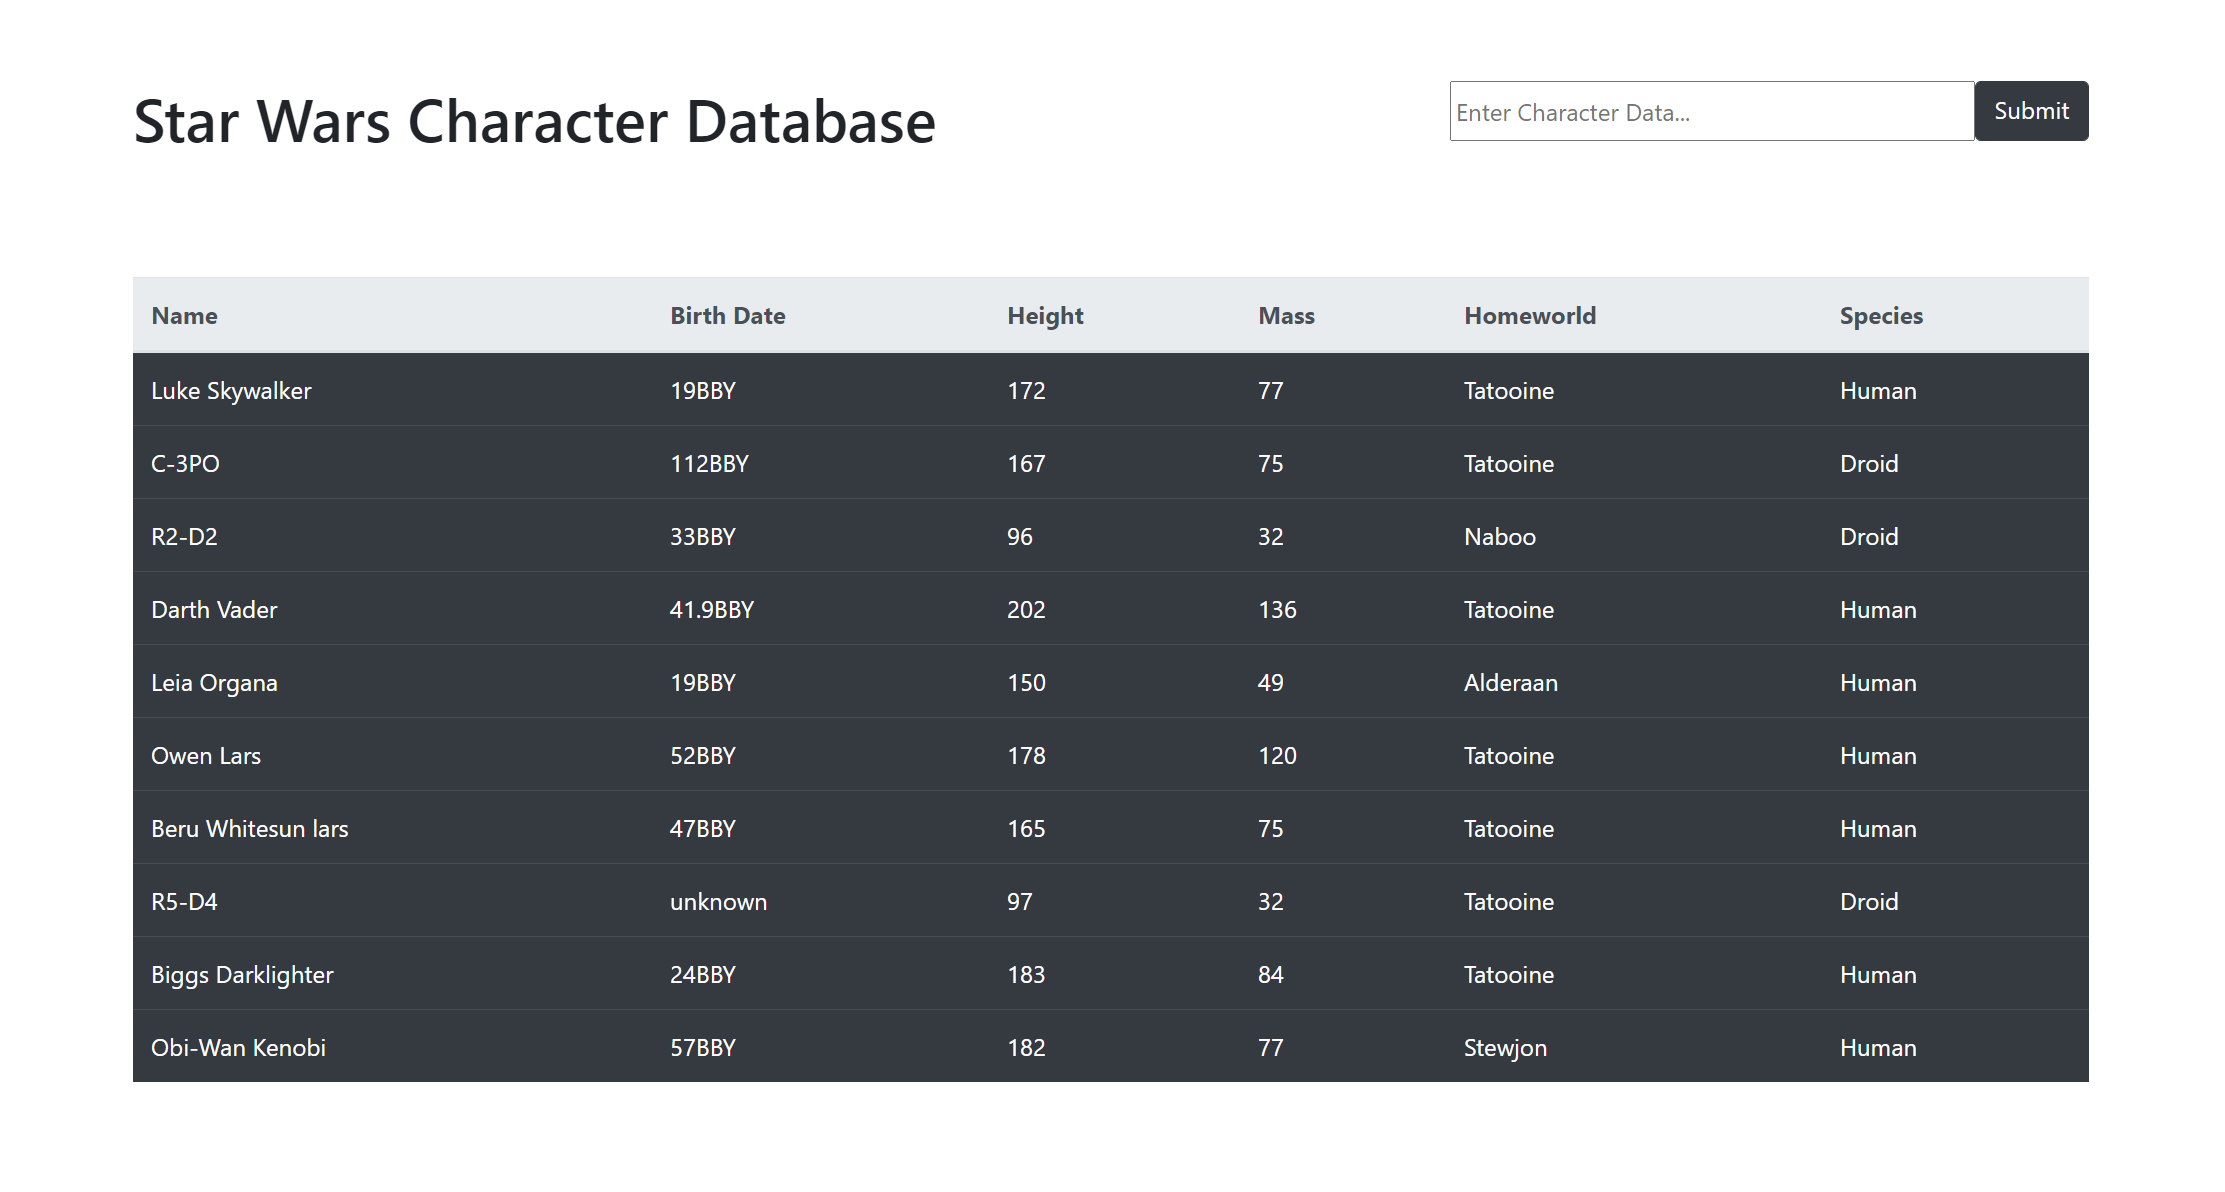
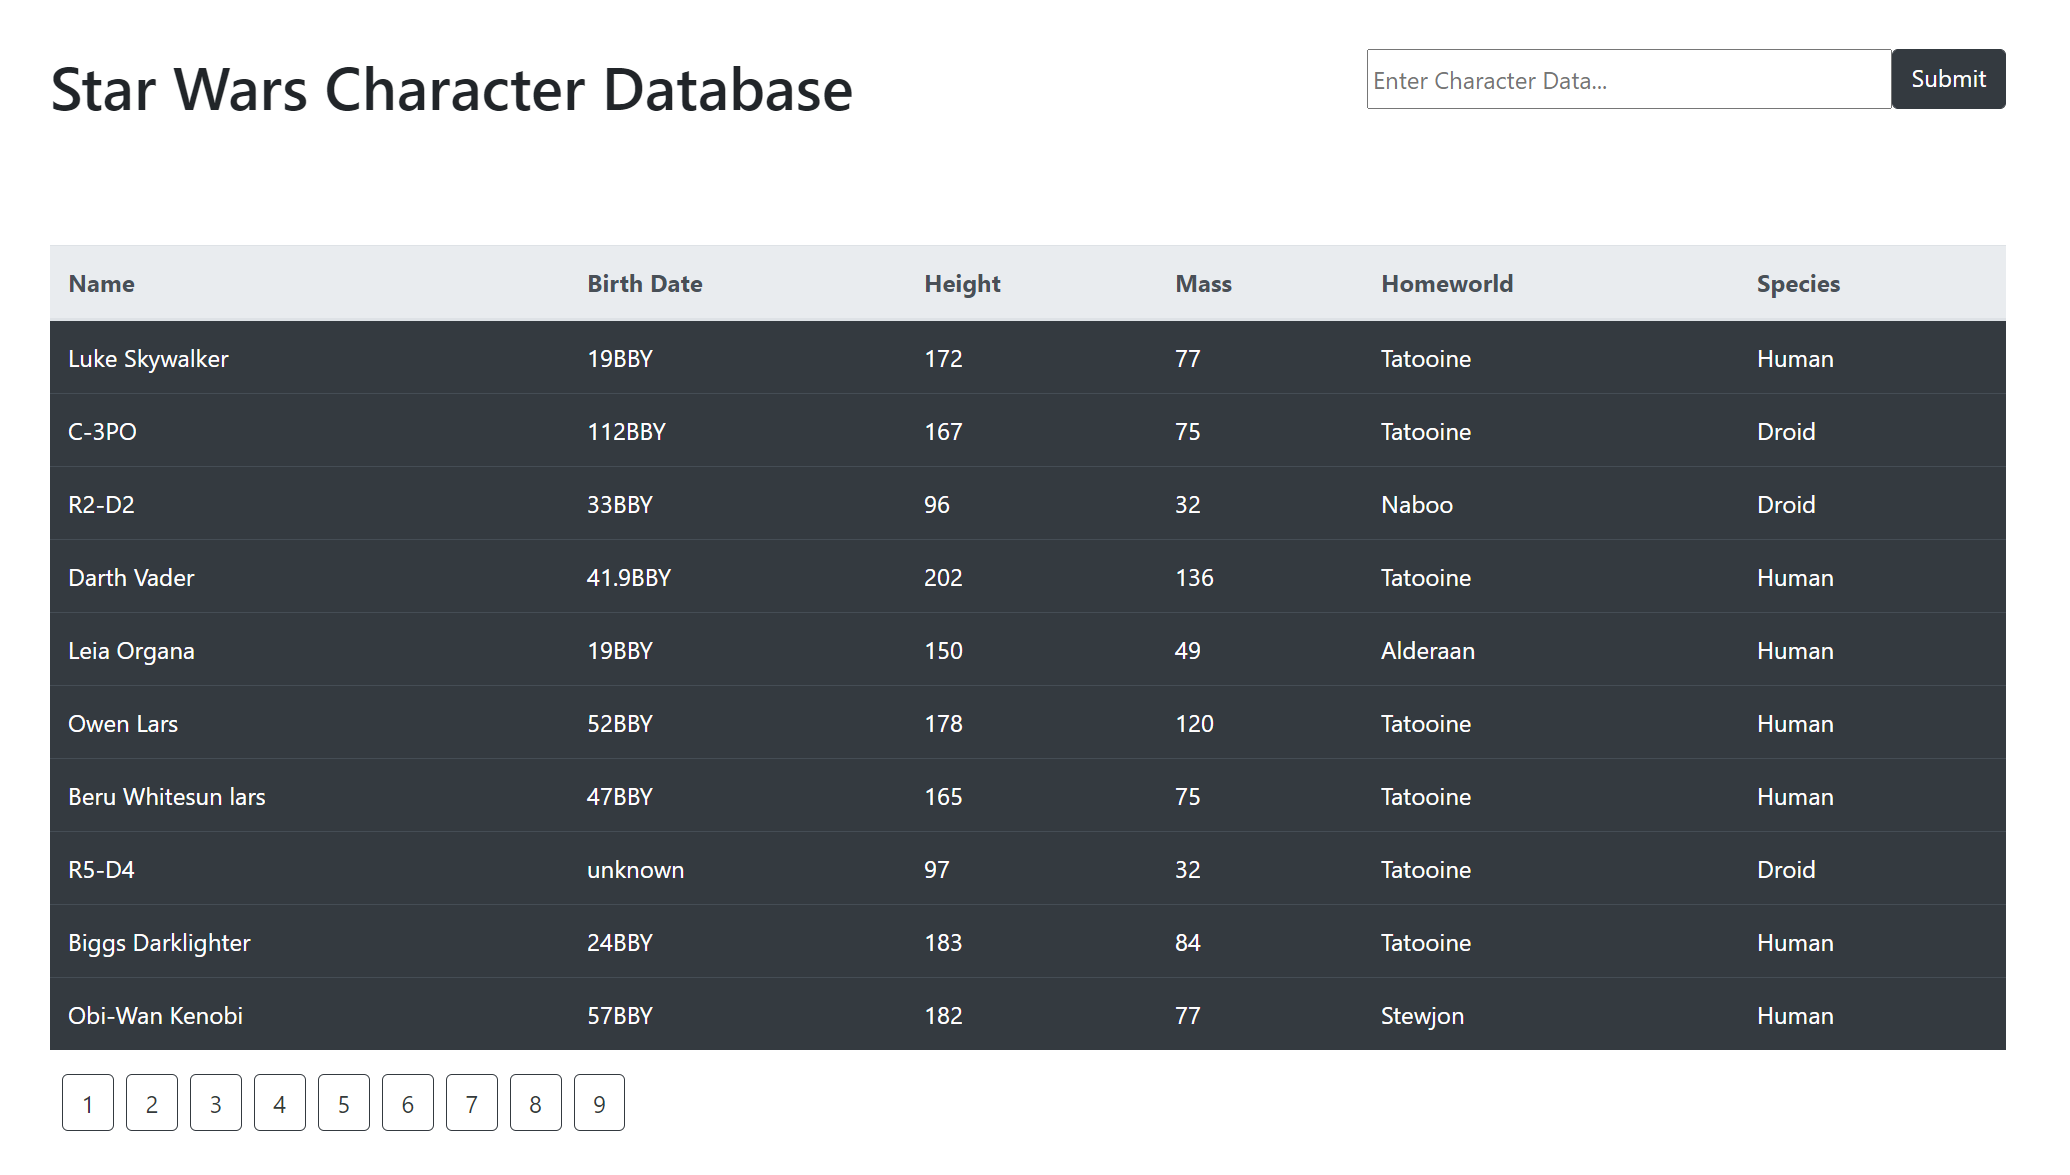
added Pagination

diff --git a/src/App.js b/src/App.js
@@ -2,6 +2,7 @@ import React, { Component } from "react";
 import 'bootstrap/dist/css/bootstrap.min.css';
 import CharacterTable from "./components/CharacterTable";
 import SearchBar from "./components/SearchBar";
+import Pagination from "./components/Pagination";
 
 class App extends Component {
     constructor() {
@@ -19,7 +20,7 @@ class App extends Component {
         this.searchCharacter = this.searchCharacter.bind(this);
     }
 
-    async componentDidMount() {
+    async getCharacterData() {
         let planetsArray = [];
         let speciesArray = [];
         this.setState({ loading: true });
@@ -38,7 +39,6 @@ class App extends Component {
             let speciesData = await speciesResponse.json();
             speciesArray.push(speciesData.name);
         }
-
         this.setState({
             loading: false,
             characters: [...data.results],
@@ -47,51 +47,56 @@ class App extends Component {
         })
     }
 
-    async loadCharacters(pageNumber) {
-        let response = await fetch(`https://swapi.dev/api/people/?page=${pageNumber}&search=${this.state.nameSearch}`);
-        let data = await response.json();
-        this.setState({
-            characters: data,
-        });
+    async componentDidMount() {
+        this.getCharacterData();
     }
 
-    async searchCharacter(event) {
-        event.preventDefault();
-        let response = await fetch(`https://swapi.dev/api/people/?search=${this.state.nameSearch}`)
-            .then(res => res.json());
-        this.setState({
-            characters: response.results,
-        });
-    }
+async loadCharacters(pageNumber) {
+    let response = await fetch(`https://swapi.dev/api/people/?page=${pageNumber}`);
+    let data = await response.json();
+    this.setState({
+        characters: data.results,
+    });
+}
 
-    handleChange(event) {
-        const { name, value } = event.target;
-        this.setState({
-            [name]: value
-        })
-    };
+async searchCharacter(event) {
+    event.preventDefault();
+    let response = await fetch(`https://swapi.dev/api/people/?search=${this.state.nameSearch}`)
+        .then(res => res.json());
+    this.setState({
+        characters: response.results,
+    });
+}
 
-    render() {
-        return (
-            <div className="App">
-                <div class="topnav">
-                    <h1>Star Wars Character Database</h1>
-                    <SearchBar
-                        characterSearch={this.state.characterSearch}
-                        searchCharacter={this.searchCharacter}
-                        handleChange={this.handleChange} />
-                </div>
-                <div class="character-table">
-                    {(this.state.loading) ? "... completing Kessel Run ..." :
-                        <CharacterTable
-                            key={this.state.characters}
-                            characters={this.state.characters}
-                            planets={this.state.planets}
-                            species={this.state.species} />}
-                </div>
+handleChange(event) {
+    const { name, value } = event.target;
+    this.setState({
+        [name]: value
+    })
+};
+
+render() {
+    return (
+        <div className="App">
+            <div className="topnav">
+                <h1>Star Wars Character Database</h1>
+                <SearchBar
+                    characterSearch={this.state.characterSearch}
+                    searchCharacter={this.searchCharacter}
+                    handleChange={this.handleChange} />
             </div>
-        );
-    }
+            <div className="character-table">
+                {(this.state.loading) ? "... completing Kessel Run ..." :
+                    <CharacterTable
+                        key={this.state.characters}
+                        characters={this.state.characters}
+                        planets={this.state.planets}
+                        species={this.state.species} />}
+            </div>
+            <Pagination loadCharacters={this.loadCharacters} />
+        </div>
+    );
+}
 }
 
 export default App

diff --git a/src/components/Pagination.js b/src/components/Pagination.js
@@ -1,0 +1,24 @@
+import React, { Component } from 'react'
+
+export class Pagination extends Component {
+    render() {
+        const buttons = [];
+        for (let i = 1; i < 10; i++) {
+            buttons.push(i);
+        }
+
+        const paginate = buttons.map(btn => (
+            <button
+                key={btn}
+                className="btn btn-outline-dark ml-2"
+                onClick={() => this.props.loadCharacters(btn)}
+            >
+                {btn}
+            </button>
+        ));
+
+        return <div>{paginate}</div>;
+    }
+}
+
+export default Pagination

diff --git a/src/components/SearchBar.js b/src/components/SearchBar.js
@@ -11,7 +11,7 @@ function SearchForm(props){
                 onChange={props.handleChange}
                 placeholder="Enter Character Data..."
                 required></input>
-            <button id="submit-btn" type="submit" class="btn btn-dark">Submit</button>
+            <button id="submit-btn" type="submit" className="btn btn-dark">Submit</button>
         </form>
     )
 }
